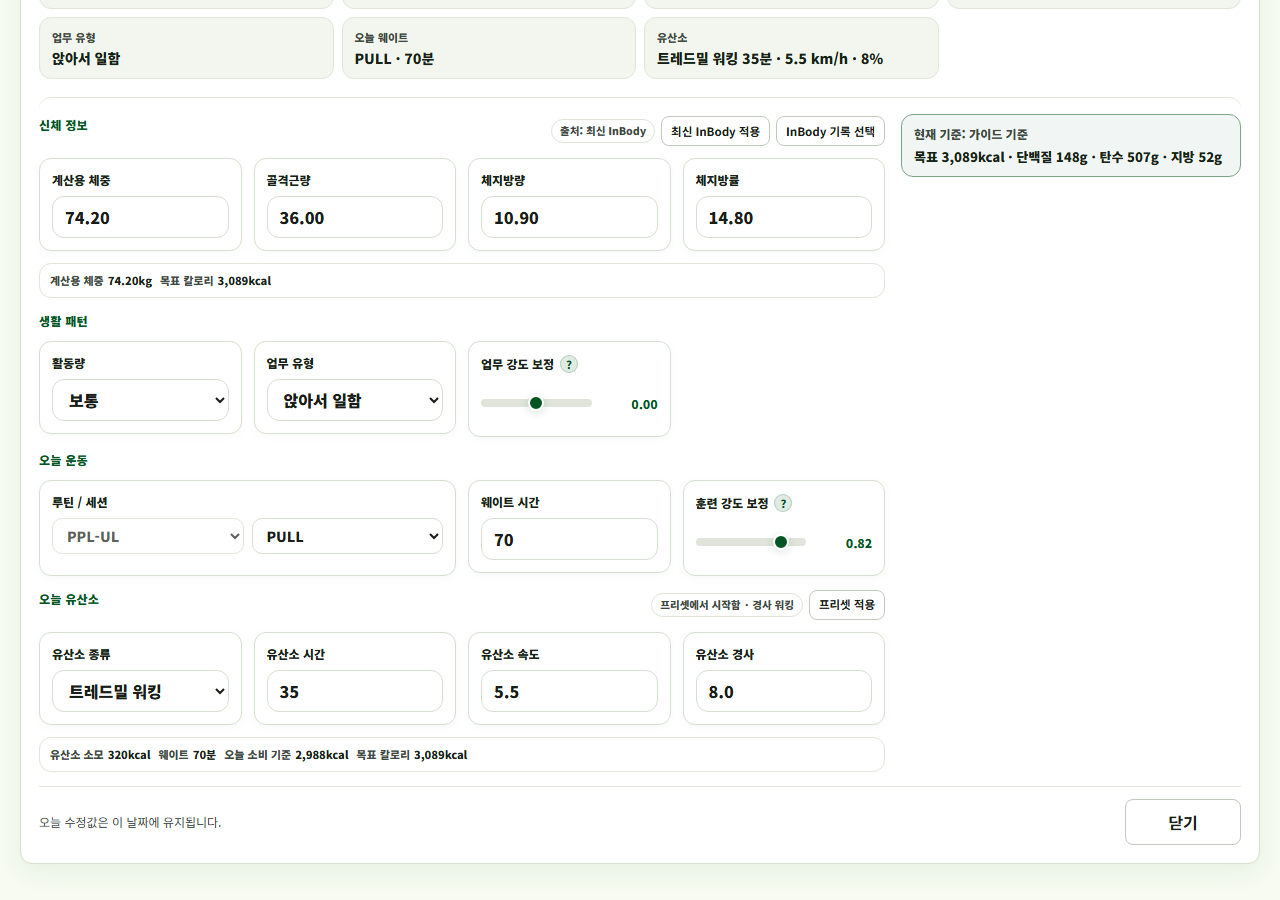
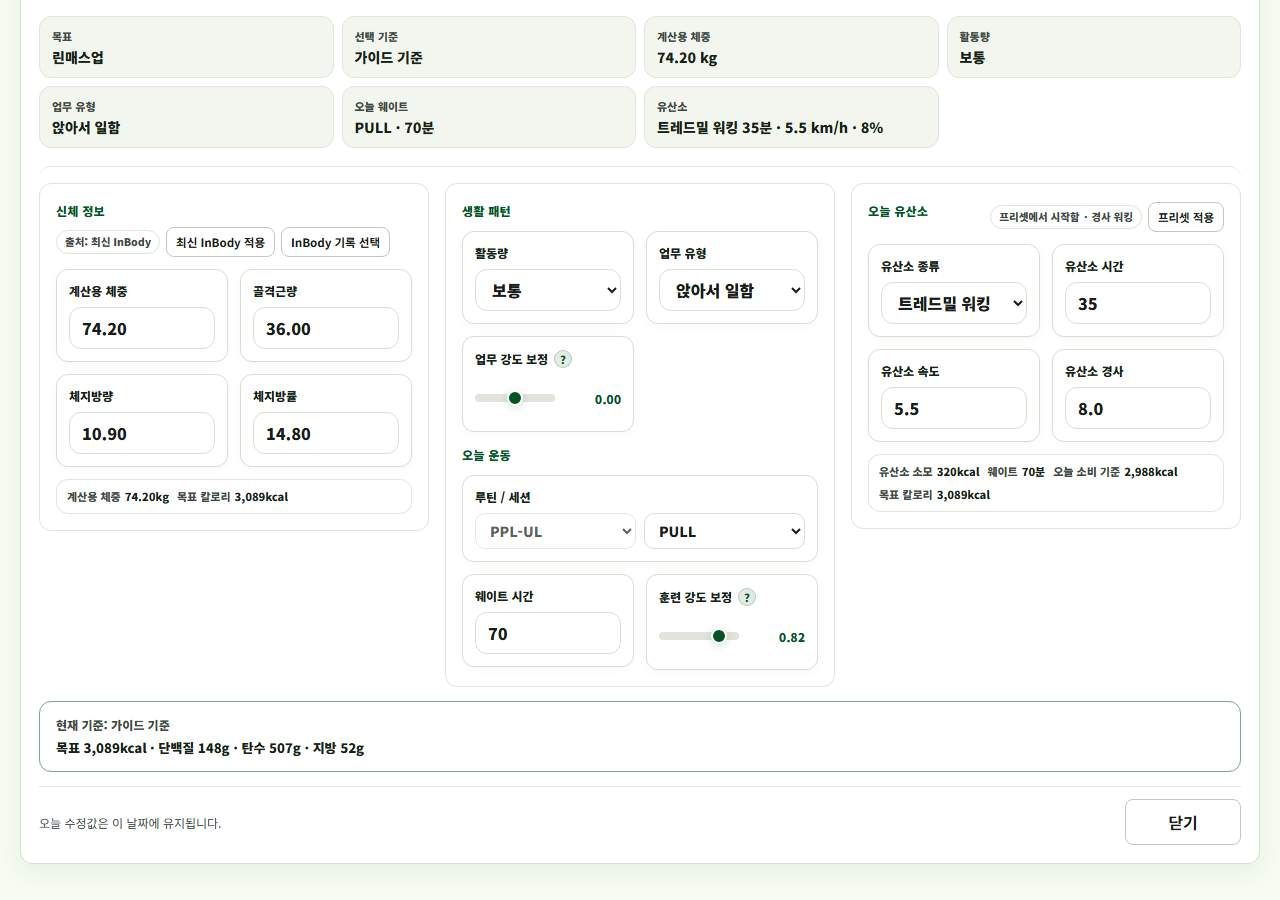
ui: v7.3 Today 설정값 Stitch 3열 표면 보강

diff --git a/index.html b/index.html
@@ -1,8 +1,10 @@
 <!--
 Version: 7.3
-Stage: v7.3-K Today meal surface Stitch list lift
+Stage: v7.3-L Today settings surface Stitch three-column lift
 Date: 2026-05-24
 Notes:
+- v7.3-L Today "오늘의 설정 값" 펼침 영역을 003 Stitch 웹 시안처럼 신체 정보 / 생활·운동 / 유산소 3열 설정 섹션으로 재배치
+- v7.3-L Today Quick Edit의 기존 input id / event handler / 계산 / 저장 / InBody·유산소 프리셋 동기화 로직은 유지
 - v7.3-K Today 식사 기록 empty/list 표면을 003 Stitch처럼 카드 헤더 / 식사 row / primary action 흐름으로 정리
 - v7.3-K Records 기록 시작 / 식사 저장 / 식사 합산 / 점수 계산 로직은 변경 없음
 - v7.3-J Today 식단 점수 empty/pending 상태도 003 Stitch처럼 원형 점수 표면과 짧은 근거 카드로 보이도록 재배치
@@ -1582,6 +1584,31 @@ Notes:
       align-items:start;
       grid-area:fields;
       min-width:0;
+    }
+    .today-quick-section{
+      min-width:0;
+      height:max-content;
+      display:grid;
+      grid-template-columns:repeat(2,minmax(0,1fr));
+      align-content:start;
+      align-items:start;
+      align-self:start !important;
+      gap:12px;
+      padding:16px;
+      border:1px solid color-mix(in srgb, var(--line) 84%, white 16%);
+      border-radius:12px;
+      background:color-mix(in srgb, var(--paper) 90%, white 10%);
+      box-shadow:none;
+    }
+    .today-quick-section .today-quick-edit-section-title,
+    .today-quick-section .today-section-title,
+    .today-quick-section .today-quick-edit-section-head,
+    .today-quick-section .today-section-head,
+    .today-quick-section .today-proximity-summary{
+      grid-column:1 / -1;
+    }
+    .today-quick-section .field{
+      margin:0;
     }
     .today-quick-edit-section-title,
     .today-section-title{
@@ -8850,14 +8877,25 @@ Notes:
       grid-template-columns:1fr;
     }
     .today-calc-settings-card .today-quick-edit-panel{
-      grid-template-columns:minmax(0,1fr) minmax(280px,340px);
+      grid-template-columns:1fr;
       grid-template-areas:
-        "fields side"
-        "footer footer";
-      column-gap:16px;
+        "fields"
+        "side"
+        "footer";
+      column-gap:0;
     }
     .today-calc-settings-card .today-quick-edit-fields{
-      grid-template-columns:repeat(4,minmax(130px,1fr));
+      grid-template-columns:repeat(3,minmax(0,1fr));
+      gap:16px;
+    }
+    .today-calc-settings-card .today-quick-edit-side{
+      grid-template-columns:minmax(0,1fr);
+    }
+    .today-calc-settings-card .today-quick-edit-result{
+      min-height:0;
+      padding:14px 16px;
+      border-radius:12px;
+      background:color-mix(in srgb, var(--leaf) 9%, white 91%);
     }
     .meal-summary-card{
       padding:12px 14px;
@@ -10719,6 +10757,11 @@ Notes:
       }
       .today-calc-settings-card .today-quick-edit-fields{
         grid-template-columns:1fr;
+      }
+      .today-quick-section{
+        grid-template-columns:1fr;
+        padding:14px;
+        gap:10px;
       }
       .today-quick-routine-card{
         grid-column:1 / -1;
@@ -12792,6 +12835,7 @@ Notes:
         <div class="today-calc-summary-grid" id="todayCalcSummary" aria-live="polite"></div>
         <div class="today-quick-edit-panel" id="todayQuickEditPanel" aria-hidden="false">
           <div class="today-quick-edit-fields">
+            <div class="today-quick-section today-quick-section-body">
             <div class="today-quick-edit-section-head today-section-head today-body-status-head">
               <div class="today-quick-edit-section-title today-section-title">신체 정보</div>
               <div class="today-inbody-fill-actions today-section-actions">
@@ -12817,6 +12861,8 @@ Notes:
               <input id="todayQuickBodyFat" type="number" min="1" max="75" step="0.1" inputmode="decimal">
             </div>
             <div class="today-proximity-summary body-status-summary" id="todayBodyResultSummary" aria-live="polite"></div>
+            </div>
+            <div class="today-quick-section today-quick-section-routine">
             <div class="today-quick-edit-section-title today-section-title">생활 패턴</div>
             <div class="field">
               <label for="todayQuickActivityLevel">활동량</label>
@@ -12863,6 +12909,8 @@ Notes:
                 <output id="todayQuickIntensityOut">0.80</output>
               </div>
             </div>
+            </div>
+            <div class="today-quick-section today-quick-section-cardio">
             <div class="today-quick-edit-section-head today-section-head today-cardio-preset-head">
               <div class="today-quick-edit-section-title today-section-title">오늘 유산소</div>
               <div class="today-cardio-preset-actions today-section-actions">
@@ -12891,6 +12939,7 @@ Notes:
               <input id="todayQuickCardioIncline" type="number" min="0" max="15" step="1" inputmode="decimal">
             </div>
             <div class="today-proximity-summary exercise-result-summary" id="todayExerciseResultSummary" aria-live="polite"></div>
+            </div>
           </div>
           <div class="today-quick-edit-side">
             <div class="today-quick-edit-result" id="todayQuickEditResultSummary" aria-live="polite"></div>